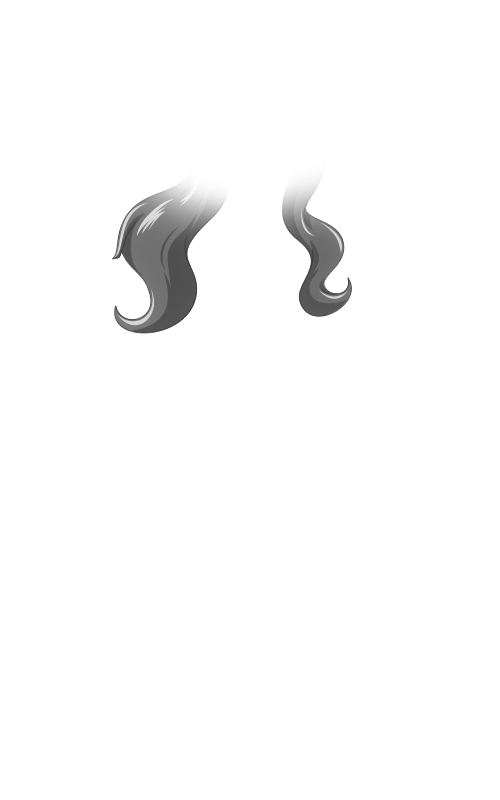
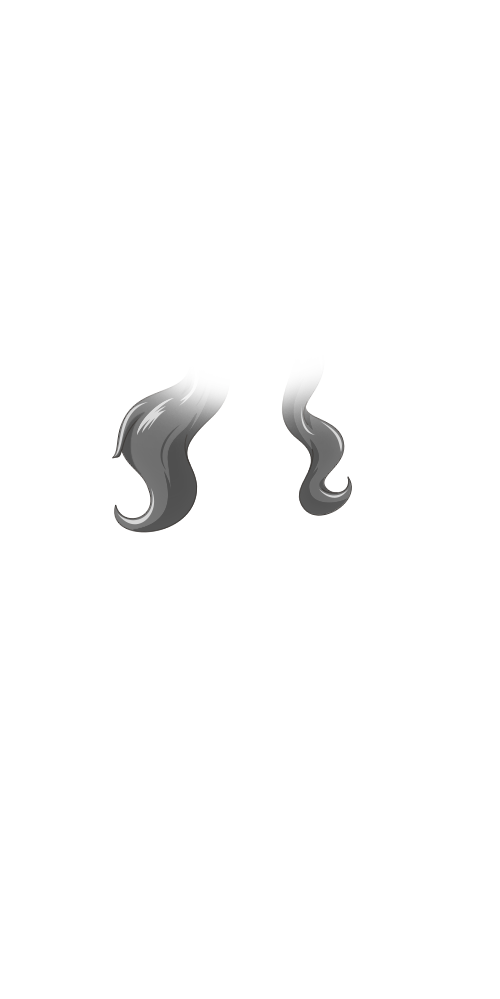
Added Suspension pose for Front Hair

Changed region(s): [[0.21, 0.2188, 0.45, 0.5312], [0.54, 0.2188, 0.72, 0.5312]]

diff --git a/BondageClub/Assets/Female3DCG/Female3DCG.js b/BondageClub/Assets/Female3DCG/Female3DCG.js
@@ -1952,13 +1952,13 @@ var AssetFemale3DCG = [
 			{ Name: "HairFront24" },
 			{ Name: "HairFront25" },
 			{ Name: "HairFront26" },
-			{ Name: "HairFront27",
+			{ Name: "HairFront27", AllowPose: ["Suspension"],
 			Layer: [
 				{ Name: "Base" },
-				{ Name: "Bangs", Priority: 54, CopyLayerColor: "Base"},
-				{ Name: "BangsTip", Priority: 54 },
+				{ Name: "Bangs", Priority: 54, CopyLayerColor: "Base" },
+				{ Name: "BangsTip", Priority: 54},
 			], 
-			Top: 0, Left: 0 },
+			Top: -200, Left: 0 },
 		],
 		Color: ["#6a3628", "#202020", "#dcc787", "#6c2132", "#999999", "#dddddd", "#e781b1", "#81e7b1", "#81b1e7", "#eeee99", "#ee9999", "#ee99ee"]
 	},
